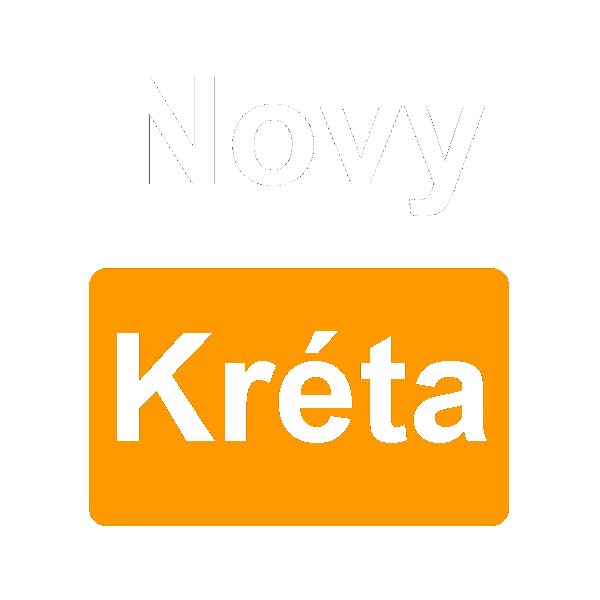
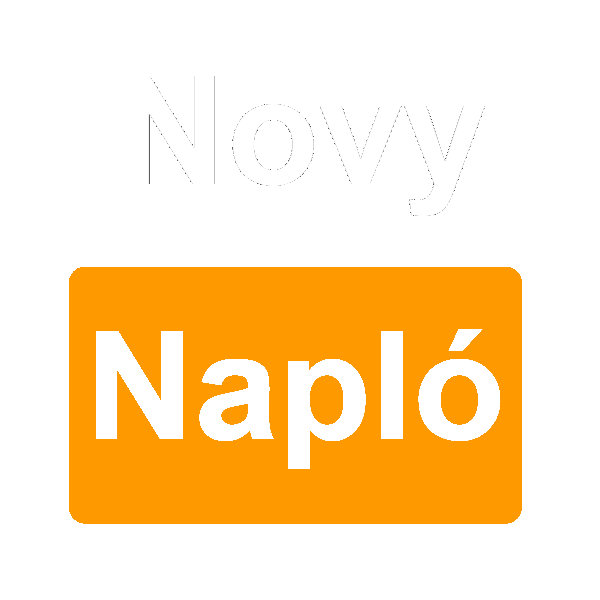
Added drawer (Side menu)

Changed region(s): [[0.09, 0.42, 0.87, 0.87], [0.18, 0.87, 0.81, 0.9]]

diff --git a/lib/marks_tab.dart b/lib/marks_tab.dart
@@ -14,6 +14,7 @@ import 'package:shared_preferences/shared_preferences.dart';
 import 'dart:convert';
 SharedPreferences prefs;
 var apiResponse = dJson; 
+String menuLogo = "assets/home.png";
 
 
 void loadEvent() async{ 
@@ -107,6 +108,35 @@ class _MarksTabState extends State<MarksTab>{
   // ===========================================================================
   Widget _buildAndroid(BuildContext context) {
     return Scaffold(
+      drawer: Drawer(
+        child: ListView(
+          padding: EdgeInsets.zero,
+          children: <Widget>[
+            DrawerHeader(
+              decoration: BoxDecoration(
+                color: Colors.blue,
+              ),
+              child: Center(child:new Image.asset(menuLogo,fit: BoxFit.fill))
+              ),
+            ListTile(
+              title: Text('Jegyek'),
+              leading: FlutterLogo(),
+              onTap: () {
+                // Update the state of the app.
+                Navigator.pop(context);
+              },
+            ),
+            ListTile(
+              title: Text('Beállítások'),
+              leading: Icon(Icons.settings_applications),
+              onTap: () {
+                // Update the state of the app.
+                Navigator.pop(context);
+              },
+            ),
+          ],
+        ),
+      ),
       appBar: AppBar(
         title: Text(MarksTab.title),
         actions: [
@@ -116,7 +146,6 @@ class _MarksTabState extends State<MarksTab>{
           ),
         ],
       ),
-      drawer: widget.androidDrawer,
       body: RefreshIndicator(
         key: _androidRefreshKey,
         onRefresh: _refreshData,

diff --git a/lib/login_page.dart b/lib/login_page.dart
@@ -25,10 +25,10 @@ bool gotToken;
 bool isPressed = false;
 
 void onLoad(var context) async {
-  if(await getVersion() != "false"){
-     String s = await getVersion();
-     s = "New version: $s";
-    _ackAlert(context,s);
+  if (await getVersion() != "false") {
+    String s = await getVersion();
+    s = "New version: $s";
+    _ackAlert(context, s);
   }
   final SharedPreferences prefs = await SharedPreferences.getInstance();
   String passKey = config.passKey;
@@ -126,7 +126,7 @@ void auth(var context) async {
       }
     }
   }
-  _ackAlert(context,status);
+  _ackAlert(context, status);
   isPressed = false;
 }
 
@@ -276,7 +276,7 @@ class _LoginPageState extends State<LoginPage> {
   }
 }
 
-Future<void> _ackAlert(BuildContext context,String content) {
+Future<void> _ackAlert(BuildContext context, String content) {
   return showDialog<void>(
     context: context,
     builder: (BuildContext context) {

diff --git a/lib/main.dart b/lib/main.dart
@@ -17,7 +17,7 @@ class MyApp extends StatelessWidget {
   @override
   Widget build(BuildContext context) {
     return MaterialApp(
-      title: 'NovyNotifier',
+      title: 'Novy Napló',
       debugShowCheckedModeBanner: false,
       theme: ThemeData(
         primarySwatch: Colors.lightBlue,
